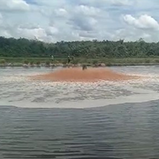
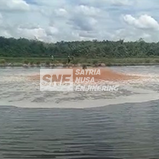
ganti image agar ada watermark

Changed region(s): [[0.2516, 0.4277, 0.7547, 0.5786]]

diff --git a/src/components/headers/Navbar.tsx b/src/components/headers/Navbar.tsx
@@ -40,37 +40,37 @@ const Navbar = () => {
                 <div className="flex items-baseline ml-10 space-x-4">
                   <a
                     className="text-lg text-[#41444B] hover:text-gray-800 dark:hover:text-white px-2 py-1 rounded-md"
-                    href={Translator.gotoUrl('/')}
+                    href={Translator.gotoUrl('/', lang)}
                   >
                     {Translator.t('home', lang)}
                   </a>
                   <a
                     className="text-lg text-[#41444B] hover:text-gray-800 dark:hover:text-white px-2 py-1 rounded-md"
-                    href={Translator.gotoUrl('/#about')}
+                    href={Translator.gotoUrl('#about', lang)}
                   >
                     {Translator.t('about-us', lang)}
                   </a>
                   <a
                     className="text-lg text-[#41444B] hover:text-gray-800 dark:hover:text-white px-2 py-1 rounded-md"
-                    href={Translator.gotoUrl('/#our-service-section')}
+                    href={Translator.gotoUrl('#our-service-section', lang)}
                   >
                     {Translator.t('our-services', lang)}
                   </a>
                   <Link
                     className="text-lg text-[#41444B] hover:text-gray-800 dark:hover:text-white px-2 py-1 rounded-md"
-                    href={Translator.gotoUrl('waste_water_technology')}
+                    href={Translator.gotoUrl('/waste_water_technology', lang)}
                   >
                     {Translator.t('waste-water-technology', lang)}
                   </Link>
                   <Link
                     className="text-lg text-[#41444B] hover:text-gray-800 dark:hover:text-white px-2 py-1 rounded-md"
-                    href={Translator.gotoUrl('products')}
+                    href={Translator.gotoUrl('/products', lang)}
                   >
                     {Translator.t('our-products', lang)}
                   </Link>
                   <a
                     className="text-lg text-[#41444B] hover:text-gray-800 dark:hover:text-white px-2 py-1 rounded-md"
-                    href={Translator.gotoUrl('/#contact')}
+                    href={Translator.gotoUrl('#contact', lang)}
                   >
                     {Translator.t('contact-us', lang)}
                   </a>
@@ -102,31 +102,31 @@ const Navbar = () => {
             <div className="px-2 pt-2 pb-3 space-y-1 sm:px-3">
               <a
                 className="text-gray-500 hover:text-gray-800 dark:hover:text-white block px-2 py-1 rounded-md text-base font-medium"
-                href={Translator.gotoUrl('/')}
+                href={Translator.gotoUrl('/', lang)}
               >
                 {Translator.t('home', lang)}
               </a>
               <a
                 className="text-gray-500 hover:text-gray-800 dark:text-white block px-2 py-1 rounded-md text-base font-medium"
-                href={Translator.gotoUrl('/#about')}
+                href={Translator.gotoUrl('#about', lang)}
               >
                 {Translator.t('about-us', lang)}
               </a>
               <a
                 className="text-gray-500 hover:text-gray-800 dark:text-white block px-2 py-1 rounded-md text-base font-medium"
-                href={Translator.gotoUrl('/#our-service-section')}
+                href={Translator.gotoUrl('#our-service-section', lang)}
               >
                 {Translator.t('our-services', lang)}
               </a>
               <Link
                 className="text-gray-500 hover:text-gray-800 dark:hover:text-white block px-2 py-1 rounded-md text-base font-medium"
-                href={Translator.gotoUrl('waste_water_technology')}
+                href={Translator.gotoUrl('/waste_water_technology', lang)}
               >
                 {Translator.t('waste-water-technology', lang)}
               </Link>
               <Link
                 className="text-gray-500 hover:text-gray-800 dark:hover:text-white block px-2 py-1 rounded-md text-base font-medium"
-                href={Translator.gotoUrl('products')}
+                href={Translator.gotoUrl('/products', lang)}
               >
                 {Translator.t('our-products', lang)}
               </Link>

diff --git a/src/app/ourproject.tsx b/src/app/ourproject.tsx
@@ -44,7 +44,7 @@ function OurProject() {
                                             <button className="hover:scale-110">
                                                 <ModalVideo videoUrl="https://www.youtube.com/embed/CzEVDupsta0">
                                                     <svg width="75" height="75" viewBox="0 0 75 75" fill="none" xmlns="http://www.w3.org/2000/svg">
-                                                        <g clip-path="url(#clip0_205_110)">
+                                                        <g clipPath="url(#clip0_205_110)">
                                                             <mask id="mask0_205_110" style={{ maskType: "luminance" }} maskUnits="userSpaceOnUse" x="0" y="0" width="75" height="75">
                                                                 <path d="M75 0H0V75H75V0Z" fill="white" />
                                                             </mask>
@@ -118,7 +118,7 @@ function OurProject() {
                                         <button className="hover:scale-110">
                                             <ModalVideo videoUrl="https://www.youtube.com/embed/i9hKwHR4Mx0">
                                                 <svg width="75" height="75" viewBox="0 0 75 75" fill="none" xmlns="http://www.w3.org/2000/svg">
-                                                    <g clip-path="url(#clip0_205_110)">
+                                                    <g clipPath="url(#clip0_205_110)">
                                                         <mask id="mask0_205_110" style={{ maskType: "luminance" }} maskUnits="userSpaceOnUse" x="0" y="0" width="75" height="75">
                                                             <path d="M75 0H0V75H75V0Z" fill="white" />
                                                         </mask>
@@ -154,7 +154,7 @@ function OurProject() {
                                         <button className="hover:scale-110">
                                             <ModalVideo videoUrl="https://www.youtube.com/embed/CzEVDupsta0">
                                                 <svg width="75" height="75" viewBox="0 0 75 75" fill="none" xmlns="http://www.w3.org/2000/svg">
-                                                    <g clip-path="url(#clip0_205_110)">
+                                                    <g clipPath="url(#clip0_205_110)">
                                                         <mask id="mask0_205_110" style={{ maskType: "luminance" }} maskUnits="userSpaceOnUse" x="0" y="0" width="75" height="75">
                                                             <path d="M75 0H0V75H75V0Z" fill="white" />
                                                         </mask>
@@ -210,7 +210,7 @@ function OurProject() {
                                             <button className="hover:scale-110">
                                                 <ModalVideo videoUrl="https://www.youtube.com/embed/i9hKwHR4Mx0">
                                                     <svg width="75" height="75" viewBox="0 0 75 75" fill="none" xmlns="http://www.w3.org/2000/svg">
-                                                        <g clip-path="url(#clip0_205_110)">
+                                                        <g clipPath="url(#clip0_205_110)">
                                                             <mask id="mask0_205_110" style={{ maskType: "luminance" }} maskUnits="userSpaceOnUse" x="0" y="0" width="75" height="75">
                                                                 <path d="M75 0H0V75H75V0Z" fill="white" />
                                                             </mask>

diff --git a/src/utils/Translator.js b/src/utils/Translator.js
@@ -1,3 +1,5 @@
+import url from 'url';
+import querystring from 'query-string';
 import English from '../language/english.json';
 import Indonesian from '../language/indonesia.json';
 
@@ -45,29 +47,24 @@ class Translator {
         }
     }
 
-    static gotoUrl(subUrl) {
-        if (typeof window !== 'undefined') {
-            const urlParams = new URLSearchParams(window.location.search);
-            const lang = urlParams.get('lang');
-
-            if (subUrl === '') {
-                var url = document.location.href;
-                var baseUrl = url.substring(0, url.indexOf("/", 8));
-
-                if (lang) {
-                    subUrl += `?lang=${lang}`;
-                }
-                
-                return "baseUrl";
-            }
-
+    // Menggunakan kata kunci "function" untuk mendefinisikan metode static gotoUrl dan menambahkan tipe data pengembalian yang jelas
+    static gotoUrl(subUrl, lang) {
+        if (subUrl.includes('#')) {
             if (lang) {
-                subUrl += `?lang=${lang}`;
+                return `/?lang=${lang}${subUrl}`;
+            } else {
+                return `/${subUrl}`;
             }
+        }
+
+        // jika 'lang' tersedia, Anda bisa menggunakannya di sini
+        if (lang) {
+            subUrl += `?lang=${lang}`;
         }
 
         return subUrl;
     }
+
 }
 
 export default Translator;

diff --git a/src/components/home/Section1.tsx b/src/components/home/Section1.tsx
@@ -72,7 +72,7 @@ class MobileView extends React.Component<{ value: number; lang?: string }> {
   render() {
     return (
       <section className="relative" id="impact">
-        <ImageFade images={["/img/home/impactfoto_mobile.webp", "/img/home/impactfoto2_mobile.webp"]} />
+        <ImageFade images={["/img/home/impactfoto3_mobile.webp", "/img/home/impactfoto2_mobile.webp"]} />
         <div className="absolute top-0 bottom-0 right-0 left-0">
           <div className="h-full flex items-center justify-start text-white max-w-7xl">
             <h1 className="font-bold text-4xl md:text-5xl lg:text-6xl xl:text-7xl ml-8" style={{ lineHeight: '1.2' }}>
@@ -108,7 +108,7 @@ class DesktopView extends React.Component<{ value: number; lang?: string }> {
   render() {
     return (
       <section className="relative" id="impact">
-        <ImageFade images={["/img/home/impactfoto.webp", "/img/home/impactfoto2.webp"]} />
+        <ImageFade images={["/img/home/impactfoto3.webp", "/img/home/impactfoto2.webp"]} />
         <div className="absolute top-0 bottom-0 right-0 left-0">
           <div className="h-full flex items-center justify-start text-white max-w-7xl">
             <h1 className="font-bold text-4xl md:text-5xl lg:text-6xl xl:text-7xl mx-auto" style={{ lineHeight: '1.2' }}>

diff --git a/src/components/home/ImageFade.jsx b/src/components/home/ImageFade.jsx
@@ -25,7 +25,7 @@ class ImageFade extends React.Component {
       this.setState((prevState) => ({
         index: (prevState.index + 1) % this.props.images.length,
       }));
-    }, 3000);
+    }, 4000);
 
     const imageElement = this.imageRef.current;
     imageElement.onload = () => {
